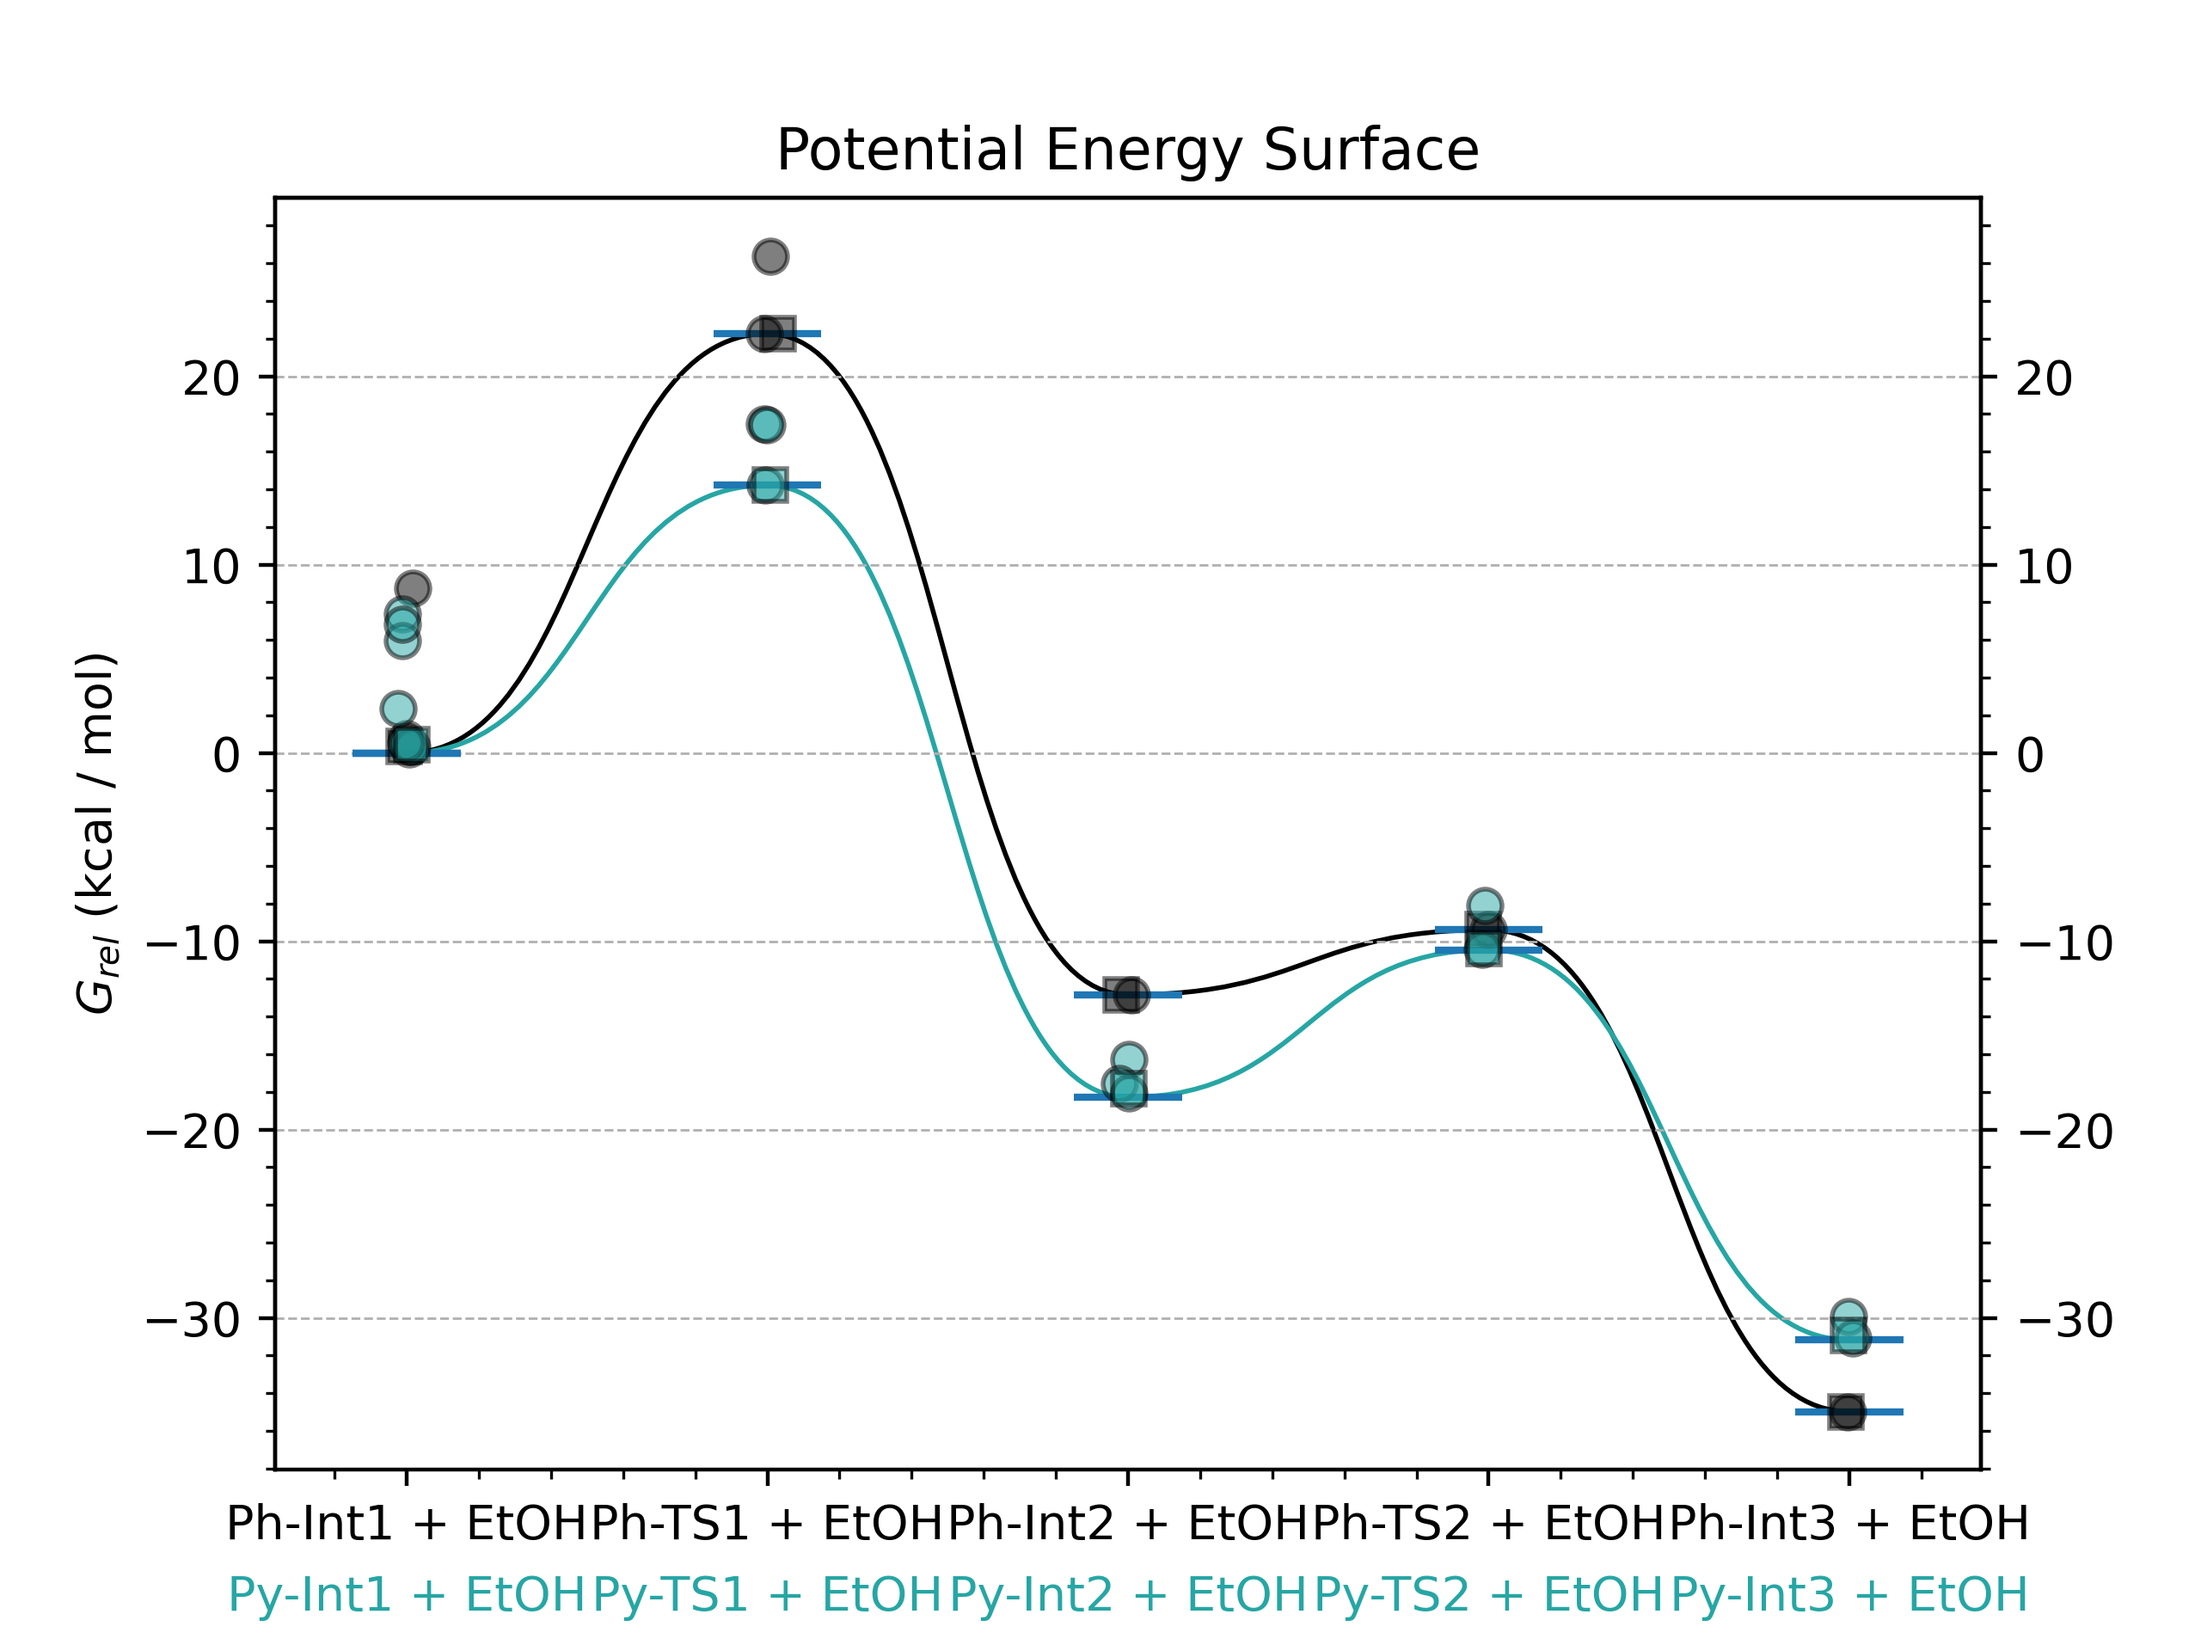
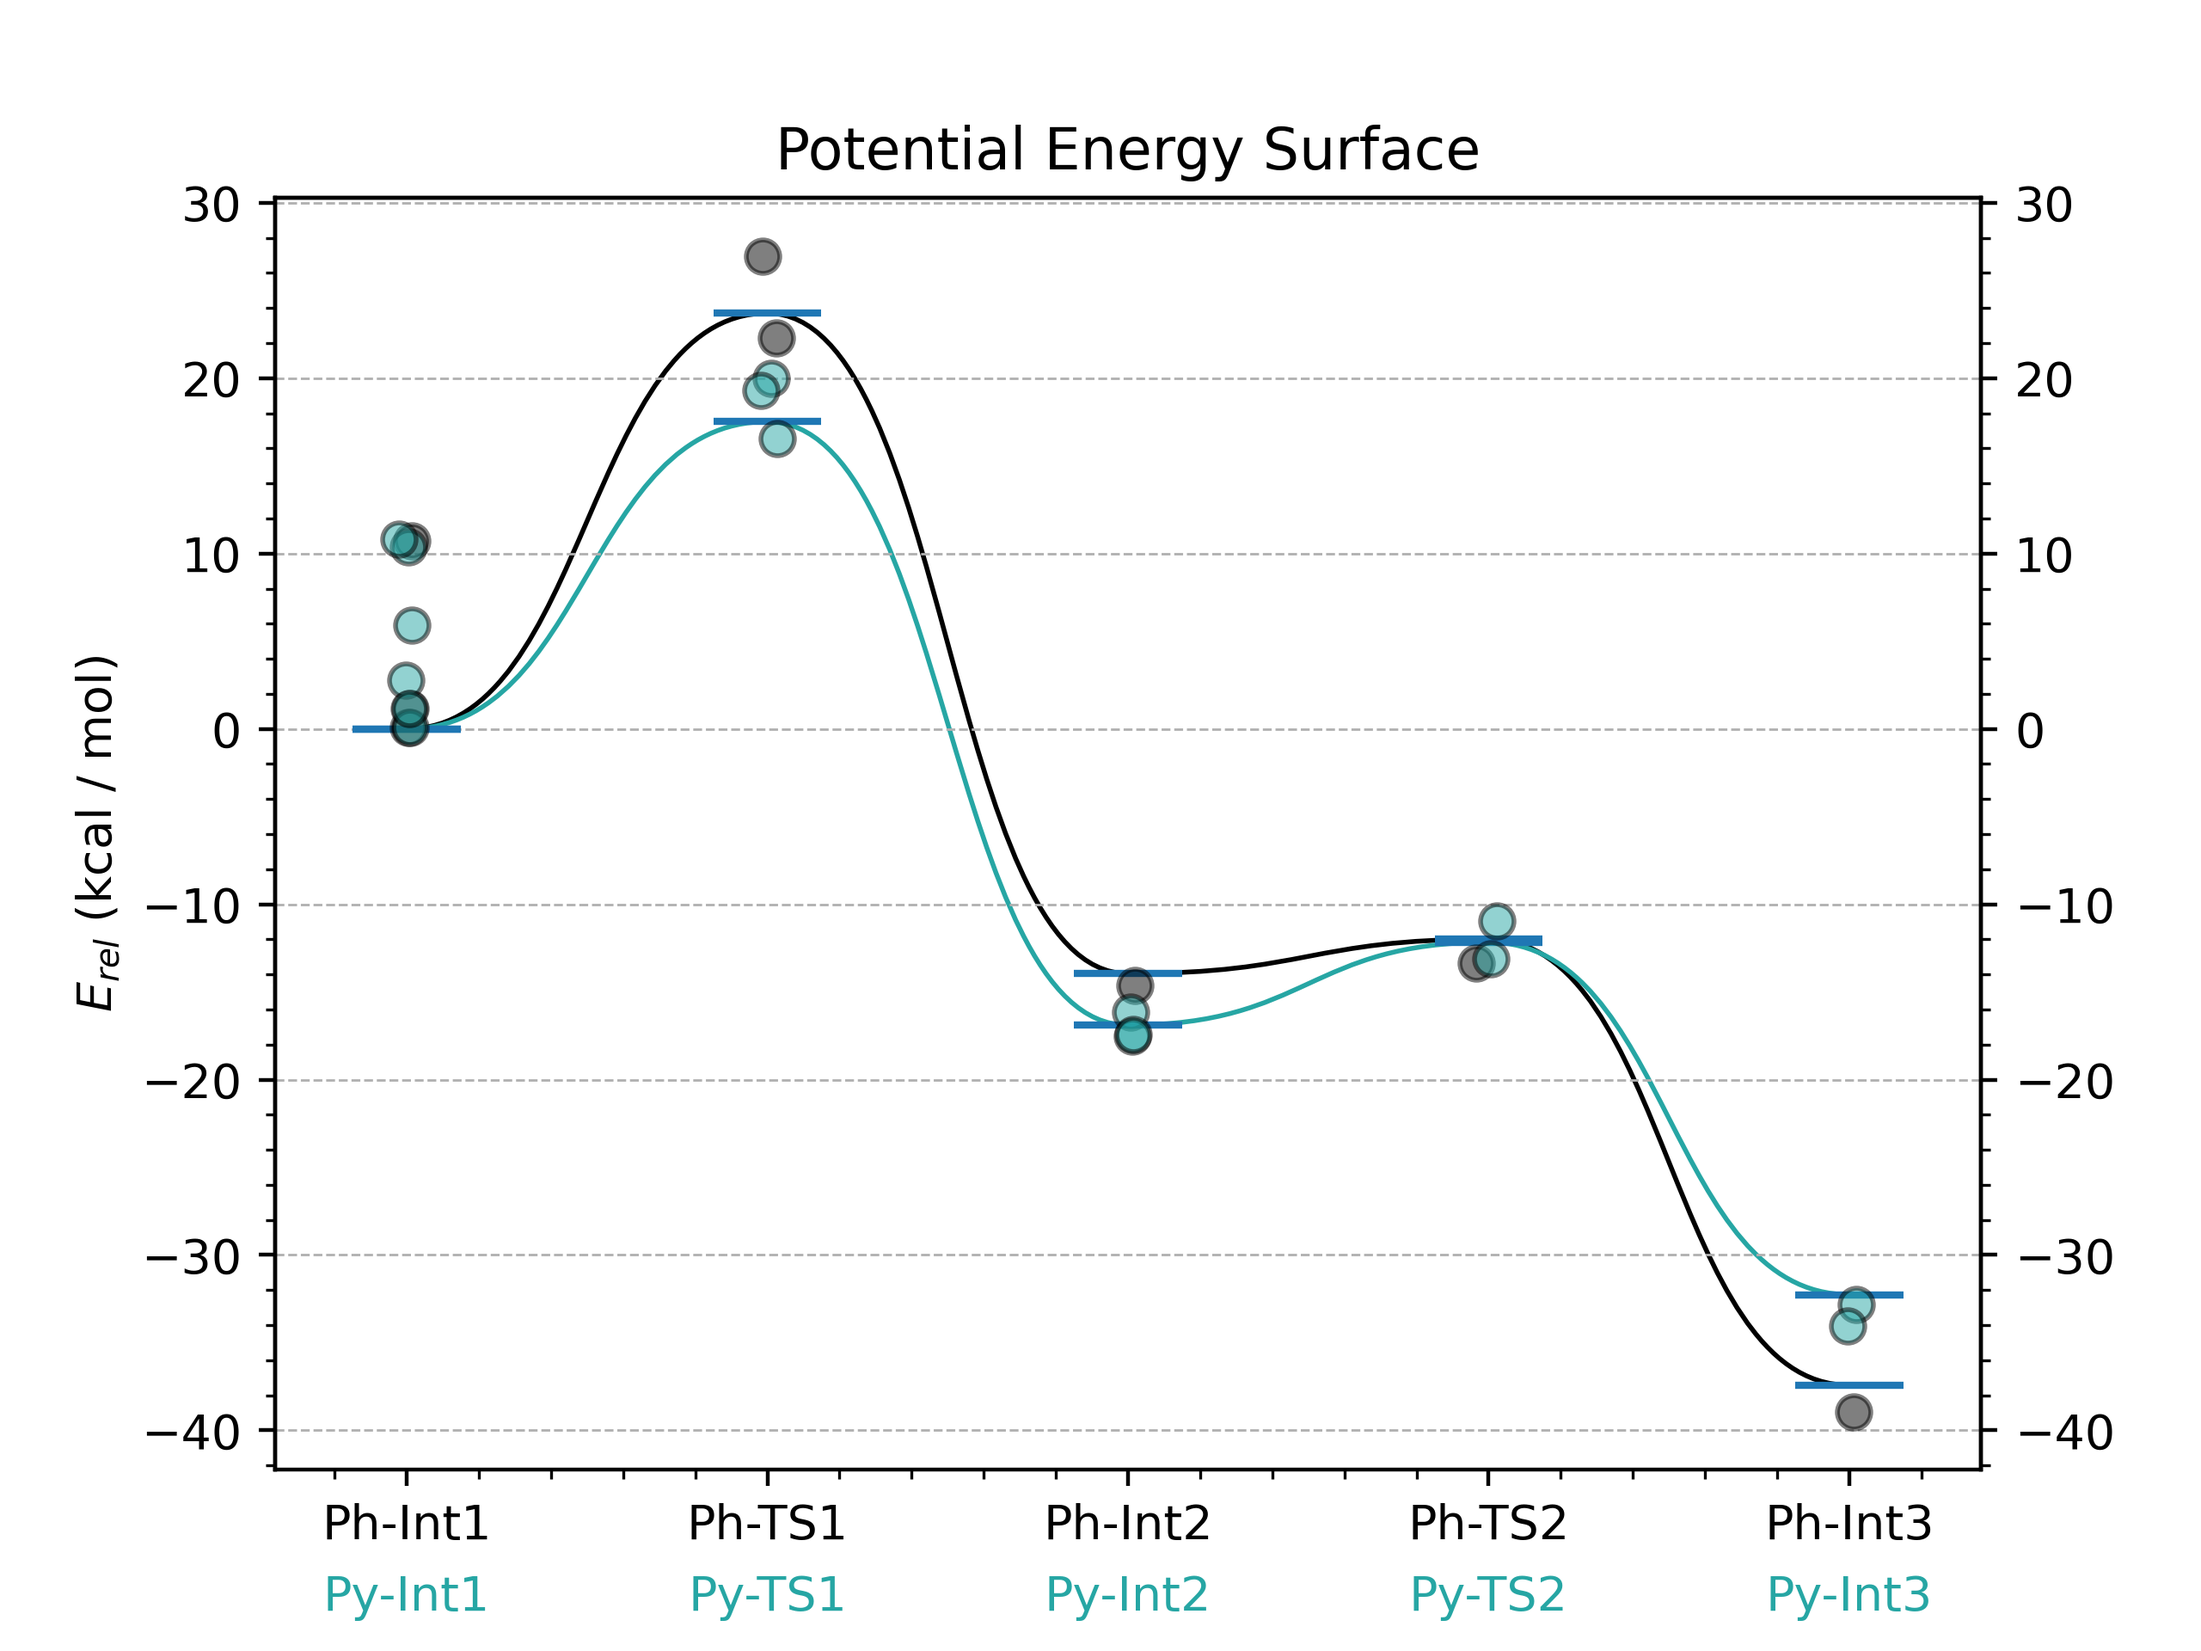
can request plotting of E, H or G

diff --git a/goodvibes/pes.py b/goodvibes/pes.py
@@ -526,7 +526,7 @@ def jitter(datasets, color, ax, nx, marker, edgecol='black'):
         ax.plot(x, y, alpha=0.5, markersize=7, color=color, marker=marker, markeredgecolor=edgecol,
                 markeredgewidth=1, linestyle='None')
 
-def graph_reaction_profile(graph_data, options, log, plt):
+def graph_reaction_profile(graph_data, options, log, plt, value='G'):
     """
     Graph a reaction profile using quasi-harmonic Gibbs free energy values.
 
@@ -541,14 +541,24 @@ def graph_reaction_profile(graph_data, options, log, plt):
     import matplotlib.path as mpath
     import matplotlib.patches as mpatches
 
+    # default to using Gibbs energy values - but change to E or H if requested
+    #sorted_thermo_data = dict(sorted(thermo_data.items(), key=lambda item: item[1].qh_gibbs_free_energy))
+    #if value == "E": sorted_thermo_data = dict(sorted(thermo_data.items(), key=lambda item: item[1].scf_energy))
+    #elif value == "H": sorted_thermo_data = dict(sorted(thermo_data.items(), key=lambda item: item[1].enthalpy))
+
     log.write("\n   Graphing Reaction Profile\n")
     data = {}
+
     # Get PES data
     for i, path in enumerate(graph_data.path):
         g_data = []
-        zero_val = graph_data.qhg_zero[i][0]
+        if value == 'G': zero_val = graph_data.qhg_zero[i][0]
+        if value == 'H': zero_val = graph_data.h_zero[i][0]
+        if value == 'E': zero_val = graph_data.e_zero[i][0]
         for j, e_abs in enumerate(graph_data.e_abs[i]):
-            species = graph_data.qhg_abs[i][j]
+            if value == 'G': species = graph_data.qhg_abs[i][j]
+            if value == 'H': species = graph_data.h_abs[i][j]
+            if value == 'E': species = graph_data.e_abs[i][j]
             relative = species - zero_val
             if graph_data.units == 'kJ/mol':
                 formatted_g = J_TO_AU / 1000.0 * relative
@@ -560,10 +570,12 @@ def graph_reaction_profile(graph_data, options, log, plt):
     # Grab any additional formatting for graph
     with open(options.graph) as f:
         yaml = f.readlines()
+
     #defaults
     ylim, color, show_conf, show_gconf, show_title = None, None, True, False, True
     label_point, label_xaxis, dpi, dec, legend = False, True, False, 2, False,
     colors, gridlines, title =  None, False, 'Potential Energy Surface'
+
     for i, line in enumerate(yaml):
         if line.strip().find('FORMAT') > -1:
             for j, line in enumerate(yaml[i + 1:]):
@@ -702,7 +714,9 @@ def graph_reaction_profile(graph_data, options, log, plt):
             ax.set_title(title)
         else:
             ax.set_title("Reaction Profile")
-    ax.set_ylabel(r"$G_{rel}$ (kcal / mol)")
+    if value == 'G': ax.set_ylabel(r"$G_{rel}$ (kcal / mol)")
+    if value == 'H': ax.set_ylabel(r"$H_{rel}$ (kcal / mol)")
+    if value == 'E': ax.set_ylabel(r"$E_{rel}$ (kcal / mol)")
     plt.minorticks_on()
     ax.tick_params(axis='x', which='minor', bottom=False)
     ax.tick_params(which='minor', labelright=True, right=True)

diff --git a/goodvibes/GoodVibes.py b/goodvibes/GoodVibes.py
@@ -543,6 +543,8 @@ class GV_options:
                                 "'conf' will compute moment of inertia from parsed rotational constants from each Gaussian output file.")
         parser.add_argument("--g4", dest="g4", action="store_true", default=False,
                             help="Use this option when using G4 calculations in Gaussian")
+        parser.add_argument("--gtype", dest="gtype", action="store", default="G",
+                            help="Use this option to request plotting of either relative E, H or G values")
 
         # Parse Arguments
         (self.options, self.args) = parser.parse_known_args()
@@ -653,7 +655,7 @@ def main():
 
     if options.graph is not False: # Graph reaction profiles
         graph_data = pes.get_pes(options.pes, thermo_data, log, options.temperature, options.gconf, options.QH)
-        pes.graph_reaction_profile(graph_data, options, log, plt)
+        pes.graph_reaction_profile(graph_data, options, log, plt, options.gtype)
 
     log.finalize()
 if __name__ == "__main__":

diff --git a/goodvibes/io.py b/goodvibes/io.py
@@ -657,7 +657,8 @@ def read_initial(file):
     """At beginning of procedure, read level of theory, solvation model, and check for normal termination"""
     with open(file) as f:
         data = f.readlines()
-    level, bs, program, keyword_line = 'none', 'none', 'none', 'none'
+
+    level, bs, program, keyword_line, solvation_model = 'none', 'none', 'none', 'none', 'none'
     progress, orientation = 'Incomplete', 'Input'
     a, repeated_theory = 0, 0
     no_grid = True
